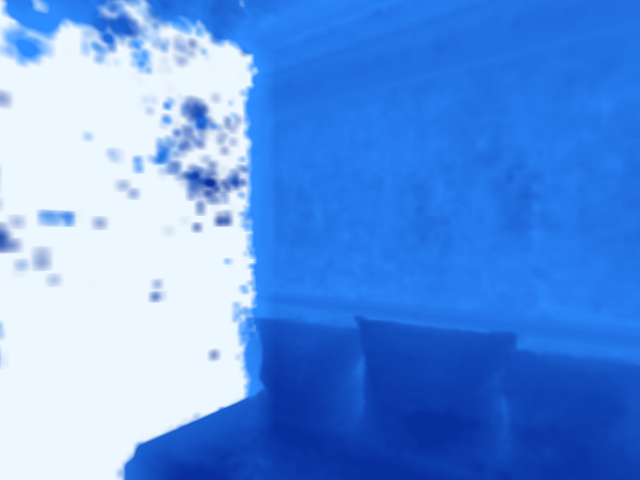
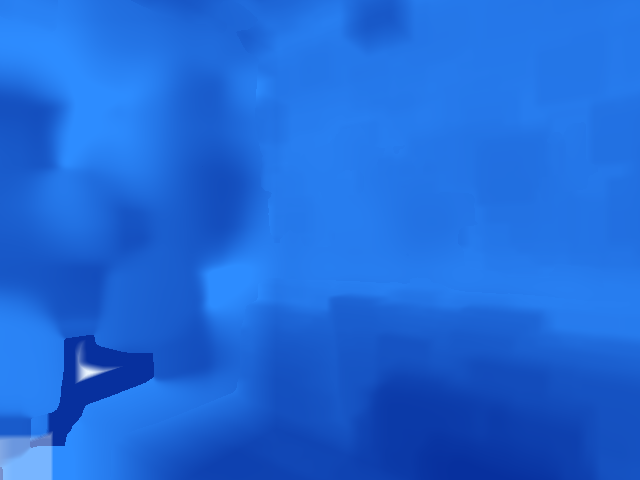
Connect Fig1 volume voxels in full render view

diff --git a/figures_src/render_camera_aligned_grid_views.py b/figures_src/render_camera_aligned_grid_views.py
@@ -24,7 +24,53 @@ def density_to_alpha(density: np.ndarray) -> np.ndarray:
     return np.clip(1.0 - np.exp(-np.exp(density) / 100.0), 0.0, 1.0)
 
 
-def load_rgba_volume(feature_path: Path) -> tuple[torch.Tensor, dict[str, np.ndarray | float | bool]]:
+def connect_rgba_volume(
+    volume: torch.Tensor,
+    kernel_size: int,
+    iterations: int,
+    alpha_gain: float,
+    rgb_fill_kernel: int,
+) -> torch.Tensor:
+    """Connect sparse neighboring voxels for figure-facing grid rendering.
+
+    The released `rgbsigma` grid is an extracted radiance-density grid, not a
+    full instant-ngp render. Thin walls/furniture may have small holes at the
+    voxel level; direct alpha compositing over a white background makes those
+    gaps look like missing depth. We close those small gaps in the 3D volume
+    before ray marching, and fill RGB in newly occupied voxels from nearby
+    alpha-weighted colors.
+    """
+    if iterations <= 0:
+        return volume
+    if kernel_size % 2 != 1 or rgb_fill_kernel % 2 != 1:
+        raise ValueError("connection kernels must be odd")
+
+    rgb = volume[:, :3]
+    alpha = volume[:, 3:4]
+
+    connected = alpha
+    padding = kernel_size // 2
+    for _ in range(iterations):
+        connected = F.max_pool3d(connected, kernel_size=kernel_size, stride=1, padding=padding)
+    connected = torch.maximum(alpha, (connected * alpha_gain).clamp(0.0, 1.0))
+
+    fill_padding = rgb_fill_kernel // 2
+    color_num = F.avg_pool3d(rgb * alpha, kernel_size=rgb_fill_kernel, stride=1, padding=fill_padding)
+    color_den = F.avg_pool3d(alpha, kernel_size=rgb_fill_kernel, stride=1, padding=fill_padding)
+    local_rgb = color_num / color_den.clamp_min(1e-6)
+    fill_mask = ((connected > alpha) & (color_den > 1e-5)).expand_as(rgb)
+    rgb = torch.where(fill_mask, local_rgb, rgb)
+    return torch.cat([rgb.clamp(0.0, 1.0), connected.clamp(0.0, 1.0)], dim=1)
+
+
+def load_rgba_volume(
+    feature_path: Path,
+    connect_voxels: bool = True,
+    connect_kernel: int = 5,
+    connect_iterations: int = 2,
+    connect_alpha_gain: float = 0.75,
+    rgb_fill_kernel: int = 7,
+) -> tuple[torch.Tensor, dict[str, np.ndarray | float | bool]]:
     with np.load(feature_path) as z:
         rgbsigma = z["rgbsigma"].astype(np.float32)
         meta = {
@@ -41,7 +87,16 @@ def load_rgba_volume(feature_path: Path) -> tuple[torch.Tensor, dict[str, np.nda
     # grid_sample expects [N, C, D, H, W], with normalized grid order x, y, z.
     # The source rgbsigma is [W, L, H, C], so spatial dims become [H, L, W].
     volume = torch.from_numpy(rgba).permute(3, 2, 1, 0).unsqueeze(0).contiguous()
-    return volume.float(), meta
+    volume = volume.float()
+    if connect_voxels:
+        volume = connect_rgba_volume(
+            volume,
+            kernel_size=connect_kernel,
+            iterations=connect_iterations,
+            alpha_gain=connect_alpha_gain,
+            rgb_fill_kernel=rgb_fill_kernel,
+        )
+    return volume, meta
 
 
 def grid_to_world(grid_points: np.ndarray, meta: dict[str, np.ndarray | float | bool]) -> np.ndarray:
@@ -178,6 +233,46 @@ def render_camera_aligned(
     return rgb_out.numpy(), opacity_out.numpy(), depth_out.numpy()
 
 
+def connect_screen_gaps(
+    rgb: np.ndarray,
+    opacity: np.ndarray,
+    depth: np.ndarray,
+    kernel_size: int,
+    iterations: int,
+    opacity_gain: float,
+) -> tuple[np.ndarray, np.ndarray, np.ndarray]:
+    """Fill screen-space gaps left by sparse voxel footprints."""
+    if iterations <= 0:
+        return rgb, opacity, depth
+    if kernel_size % 2 != 1:
+        raise ValueError("screen connection kernel must be odd")
+
+    rgb_t = torch.from_numpy(rgb).permute(2, 0, 1).unsqueeze(0).float()
+    op_t = torch.from_numpy(opacity).unsqueeze(0).unsqueeze(0).float()
+    depth_t = torch.from_numpy(depth).unsqueeze(0).unsqueeze(0).float()
+
+    padding = kernel_size // 2
+    connected = op_t
+    for _ in range(iterations):
+        connected = F.max_pool2d(connected, kernel_size=kernel_size, stride=1, padding=padding)
+    connected = torch.maximum(op_t, (connected * opacity_gain).clamp(0.0, 1.0))
+
+    color_num = F.avg_pool2d(rgb_t * op_t, kernel_size=kernel_size, stride=1, padding=padding)
+    color_den = F.avg_pool2d(op_t, kernel_size=kernel_size, stride=1, padding=padding)
+    local_rgb = color_num / color_den.clamp_min(1e-6)
+    depth_num = F.avg_pool2d(depth_t * op_t, kernel_size=kernel_size, stride=1, padding=padding)
+    local_depth = depth_num / color_den.clamp_min(1e-6)
+
+    fill = ((connected > op_t) & (color_den > 1e-4)).expand_as(rgb_t)
+    rgb_t = torch.where(fill, local_rgb, rgb_t)
+    depth_t = torch.where(fill[:, :1], local_depth, depth_t)
+    return (
+        rgb_t.squeeze(0).permute(1, 2, 0).numpy().clip(0.0, 1.0),
+        connected.squeeze(0).squeeze(0).numpy().clip(0.0, 1.0),
+        depth_t.squeeze(0).squeeze(0).numpy().clip(0.0, 1.0),
+    )
+
+
 def save_rgb(path: Path, arr: np.ndarray) -> None:
     path.parent.mkdir(parents=True, exist_ok=True)
     Image.fromarray((np.clip(arr, 0.0, 1.0) * 255).astype(np.uint8)).save(path)
@@ -291,11 +386,19 @@ def main() -> None:
     parser.add_argument("--height", type=int, default=480)
     parser.add_argument("--samples", type=int, default=192)
     parser.add_argument("--tile-rows", type=int, default=24)
-    parser.add_argument("--opacity-scale", type=float, default=0.45)
-    parser.add_argument("--alpha-threshold", type=float, default=0.015)
+    parser.add_argument("--opacity-scale", type=float, default=0.75)
+    parser.add_argument("--alpha-threshold", type=float, default=0.0)
+    parser.add_argument("--connect-voxels", action=argparse.BooleanOptionalAction, default=True)
+    parser.add_argument("--connect-kernel", type=int, default=5)
+    parser.add_argument("--connect-iterations", type=int, default=2)
+    parser.add_argument("--connect-alpha-gain", type=float, default=0.75)
+    parser.add_argument("--rgb-fill-kernel", type=int, default=7)
+    parser.add_argument("--screen-connect-kernel", type=int, default=41)
+    parser.add_argument("--screen-connect-iterations", type=int, default=2)
+    parser.add_argument("--screen-connect-opacity-gain", type=float, default=1.0)
     parser.add_argument(
         "--crop",
-        default="370,25,640,385",
+        default="",
         help="Aligned crop for paper-facing panels, formatted left,top,right,bottom. Empty string disables crops.",
     )
     args = parser.parse_args()
@@ -307,7 +410,14 @@ def main() -> None:
             f"Missing {transforms_path}. Run figures_src/download_front3d_render_scene.py --scene {args.scene} first."
         )
     transforms = json.loads(transforms_path.read_text())
-    volume, meta = load_rgba_volume(Path(args.feature_dir) / f"{args.scene}.npz")
+    volume, meta = load_rgba_volume(
+        Path(args.feature_dir) / f"{args.scene}.npz",
+        connect_voxels=args.connect_voxels,
+        connect_kernel=args.connect_kernel,
+        connect_iterations=args.connect_iterations,
+        connect_alpha_gain=args.connect_alpha_gain,
+        rgb_fill_kernel=args.rgb_fill_kernel,
+    )
     grid_rgb, opacity, depth = render_camera_aligned(
         volume=volume,
         meta=meta,
@@ -319,6 +429,14 @@ def main() -> None:
         tile_rows=args.tile_rows,
         opacity_scale=args.opacity_scale,
         alpha_threshold=args.alpha_threshold,
+    )
+    grid_rgb, opacity, depth = connect_screen_gaps(
+        grid_rgb,
+        opacity,
+        depth,
+        kernel_size=args.screen_connect_kernel,
+        iterations=args.screen_connect_iterations,
+        opacity_gain=args.screen_connect_opacity_gain,
     )
 
     out = Path(args.output_dir)

diff --git a/figures_src/build_fig1_camera_view_candidates.py b/figures_src/build_fig1_camera_view_candidates.py
@@ -10,6 +10,7 @@ from pathlib import Path
 from PIL import Image, ImageDraw, ImageOps
 
 from render_camera_aligned_grid_views import (
+    connect_screen_gaps,
     load_rgba_volume,
     render_camera_aligned,
     save_alpha,
@@ -61,8 +62,11 @@ def main() -> None:
     parser.add_argument("--height", type=int, default=480)
     parser.add_argument("--samples", type=int, default=160)
     parser.add_argument("--tile-rows", type=int, default=24)
-    parser.add_argument("--opacity-scale", type=float, default=0.18)
-    parser.add_argument("--alpha-threshold", type=float, default=0.012)
+    parser.add_argument("--opacity-scale", type=float, default=0.75)
+    parser.add_argument("--alpha-threshold", type=float, default=0.0)
+    parser.add_argument("--screen-connect-kernel", type=int, default=41)
+    parser.add_argument("--screen-connect-iterations", type=int, default=2)
+    parser.add_argument("--screen-connect-opacity-gain", type=float, default=1.0)
     args = parser.parse_args()
 
     frames = args.frame or DEFAULT_FRAMES
@@ -95,6 +99,14 @@ def main() -> None:
             tile_rows=args.tile_rows,
             opacity_scale=args.opacity_scale,
             alpha_threshold=args.alpha_threshold,
+        )
+        grid_rgb, opacity, depth = connect_screen_gaps(
+            grid_rgb,
+            opacity,
+            depth,
+            kernel_size=args.screen_connect_kernel,
+            iterations=args.screen_connect_iterations,
+            opacity_gain=args.screen_connect_opacity_gain,
         )
         save_rgb(rgba_out, grid_rgb)
         save_alpha(alpha_out, opacity, depth)

diff --git a/figures_src/fig1_render_view_assets/README.md b/figures_src/fig1_render_view_assets/README.md
@@ -43,11 +43,6 @@ final/fig1_3dfront_0131_00_0180_grid_alpha_same_camera.png  # blue, depth-shaded
 final/fig1_3dfront_0131_00_0180_render_rgb_bbox_furniture.png
 final/fig1_3dfront_0131_00_0180_render_rgb_and_bbox_furniture_pair.png
 final/fig1_3dfront_0131_00_0180_render_rgb_grid_rgba_alpha_bbox_quad.png
-final/fig1_3dfront_0131_00_0180_render_rgb_crop_sofa_wall.png
-final/fig1_3dfront_0131_00_0180_grid_rgba_crop_sofa_wall.png
-final/fig1_3dfront_0131_00_0180_grid_alpha_crop_sofa_wall.png
-final/fig1_3dfront_0131_00_0180_bbox_crop_sofa_wall.png
-final/fig1_3dfront_0131_00_0180_render_rgb_grid_rgba_alpha_bbox_quad_crop_sofa_wall.png
 ```
 
 Backup assets:
@@ -102,9 +97,13 @@ python figures_src/render_camera_aligned_grid_views.py \
   --scene 3dfront_0131_00 \
   --frame 0180 \
   --samples 256 \
-  --opacity-scale 1.15 \
+  --opacity-scale 0.75 \
   --alpha-threshold 0.0 \
-  --crop 370,25,640,385
+  --connect-voxels \
+  --connect-kernel 5 \
+  --connect-iterations 2 \
+  --screen-connect-kernel 41 \
+  --screen-connect-iterations 2
 ```
 
 ## Notes
@@ -120,11 +119,12 @@ python figures_src/render_camera_aligned_grid_views.py \
   strongly structure appears, while expected ray depth changes the blue tone.
   This avoids reading voxel/grid texture as the main signal and makes the
   structure-first concept clearer.
-- The paper-facing Fig. 1 asset should use the `crop_sofa_wall` outputs. The
-  full camera view is kept for auditability, but the extracted grid contains
-  low-density artifacts on the left wall of this frame. Cropping to the sofa and
-  back-wall region follows the NeRF-MAE teaser/Fig. 5 style: show a clean
-  interpretable part of the actual scene rather than the whole room.
+- The grid panels use voxel-connection before and after ray marching: small
+  gaps in the sparse extracted alpha grid are closed with local 3D max-pooling,
+  RGB for newly connected voxels is filled by nearby alpha-weighted colors, and
+  remaining screen-space voxel footprint gaps are connected before saving the
+  figure. This keeps the full render-view panel instead of hiding sparse-grid
+  artifacts with a crop.
 - For predicted proposal visualization exactly like NeRF-RPN, use `nerf_rpn/scripts/proposals2ngp.py` to inject proposal boxes into `transforms.json`, then render through the instant-ngp fork referenced in the NeRF-MAE README. That is heavier and not needed for the Fig. 1 conceptual render.
 - Candidate sheets are under `candidates/`; raw grid render assets remain under
   `debug/grid_volume_views/` for debugging and structure/alpha illustrations
